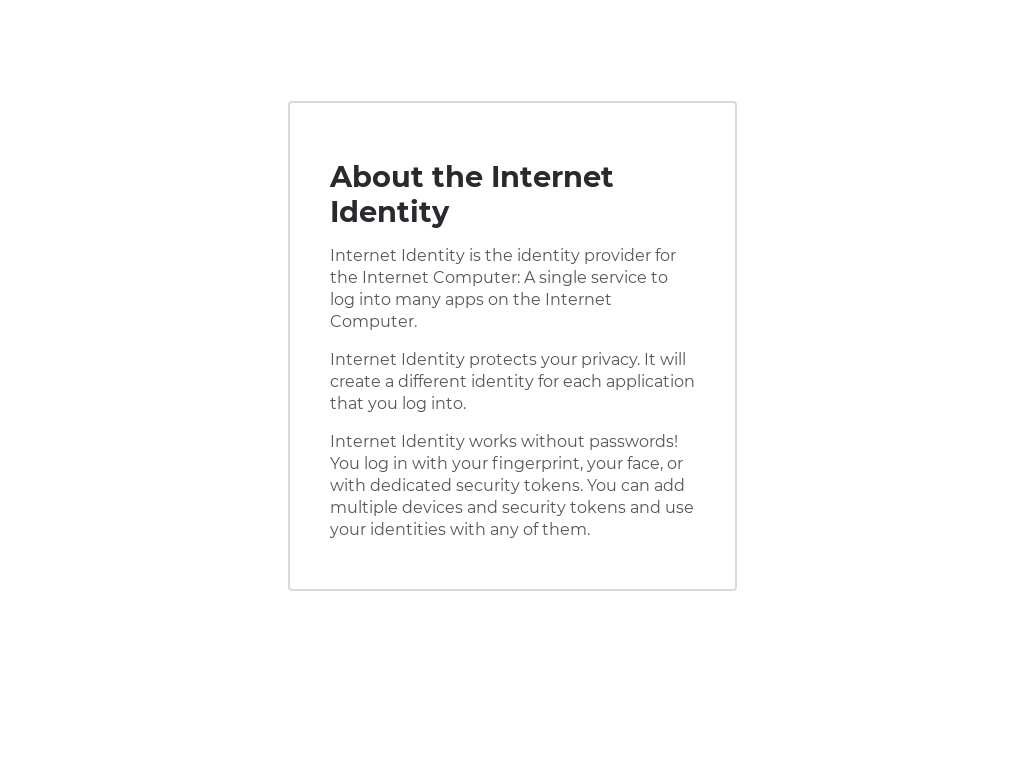
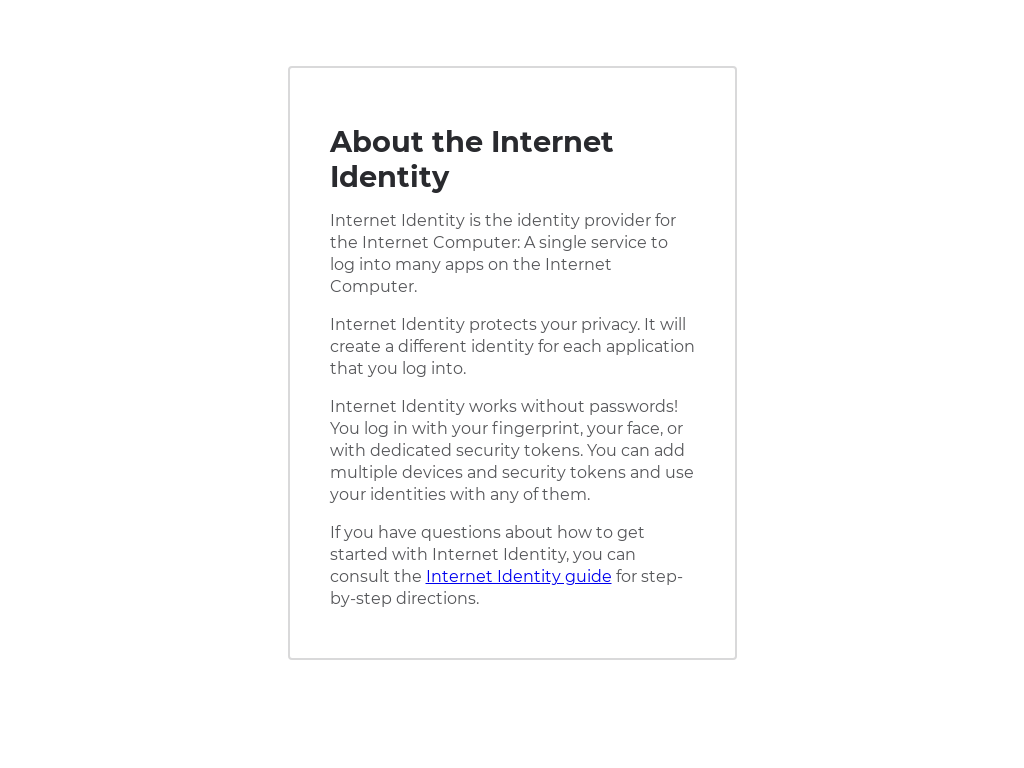
chore: adding link to user guide to about (#222)

Changed region(s): [[0.2812, 0.1562, 0.6875, 0.7812], [0.2812, 0.8438, 0.3125, 0.875]]

diff --git a/src/frontend/src/flows/about.ts b/src/frontend/src/flows/about.ts
@@ -4,24 +4,37 @@ import { html, render } from "lit-html";
 const pageContent = html`
   <style>
     ul {
-        list-style-type: none;
+      list-style-type: none;
     }
   </style>
   <div class="container" id="about">
     <h1>About the Internet Identity</h1>
     <p>
-      Internet Identity is the identity provider for the Internet Computer: A single service to log into many apps on the Internet Computer.
+      Internet Identity is the identity provider for the Internet Computer: A
+      single service to log into apps on the Internet Computer.
     </p>
     <p>
-      Internet Identity protects your privacy. It will create a different identity for each application that you log into.
+      Internet Identity protects your privacy. It will create a different
+      identity for each application that you log into.
     </p>
     <p>
-      Internet Identity works without passwords! You log in with your fingerprint, your face, or with dedicated security tokens. You can add multiple devices and security tokens and use your identities with any of them.
+      Internet Identity works without passwords! You log in with your
+      fingerprint, your face, or with dedicated security tokens. You can add
+      multiple devices and security tokens and use your identities with any of
+      them.
+    </p>
+    <p>
+      If you have questions about how to get started with Internet Identity, you
+      can consult the
+      <a href="http://sdk.dfinity.org/docs/ic-identity-guide/auth-how-to.html"
+        >Internet Identity guide</a
+      >
+      for step-by-step directions.
     </p>
   </div>
-  `;
+`;
 
 export const aboutView = () => {
   const container = document.getElementById("pageContent") as HTMLElement;
   render(pageContent, container);
-}
+};

diff --git a/webpack.config.js b/webpack.config.js
@@ -19,7 +19,7 @@ function generateWebpackConfigForCanister(name, info) {
   const isProduction = process.env.NODE_ENV === "production";
   const devtool = isProduction ? undefined : "source-map";
 
-  process.env.CANISTER_ID = process.env.CANISTER_ID ?? localCanister;
+  process.env.CANISTER_ID = process.env.CANISTER_ID || localCanister;
 
   return {
     mode: isProduction ? "production" : "development",
